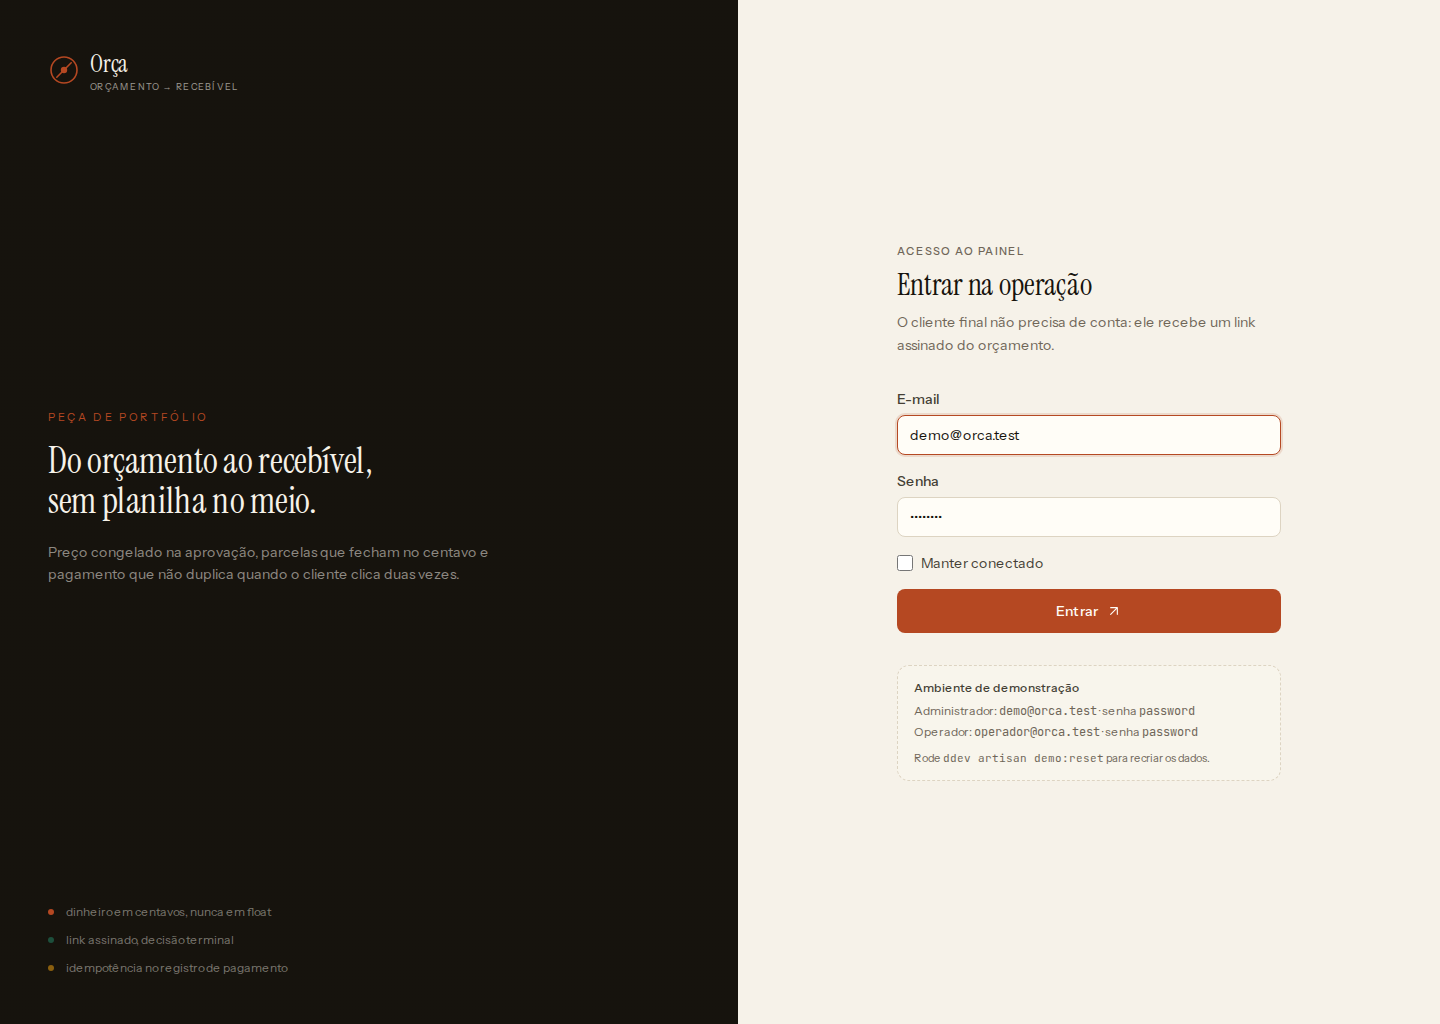
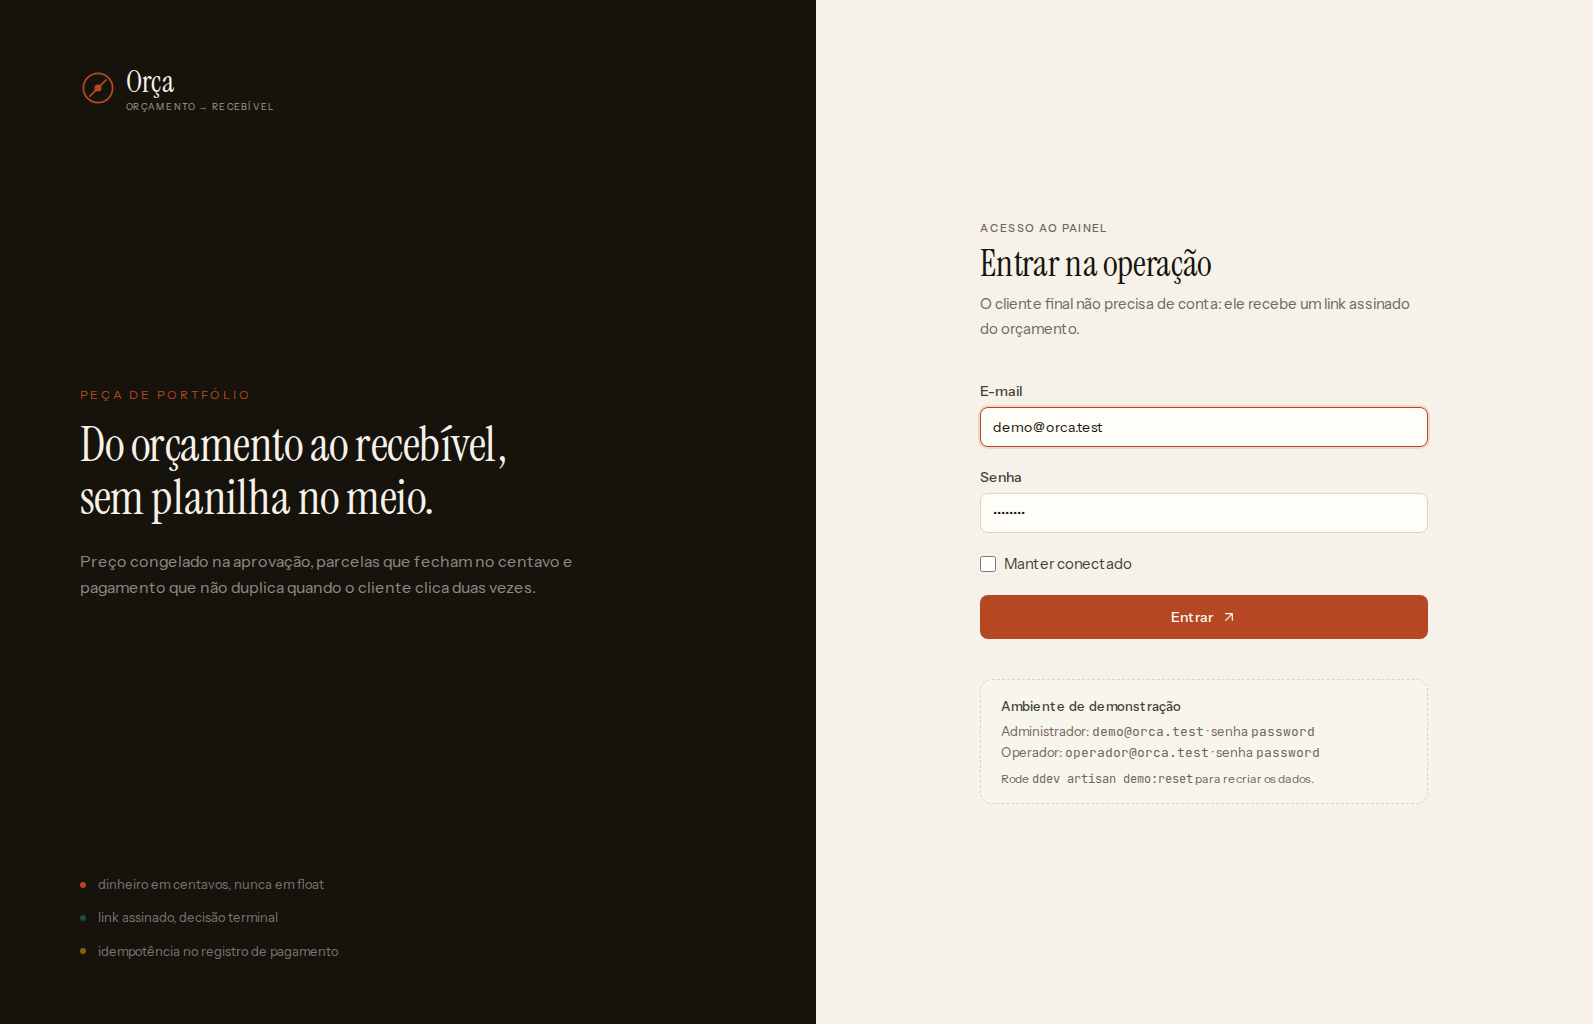
style(login): escala a composição em telas grandes
Acima de 1536px a tipografia e a coluna do formulário cresciam menos que a tela, deixando o login pequeno num canvas de 2.5k. O ajuste é só de escala no breakpoint 2xl: medida e corpo do hero, largura do formulário e respiro do painel. A composição split continua a mesma.

diff --git a/resources/views/layouts/guest.blade.php b/resources/views/layouts/guest.blade.php
@@ -11,29 +11,29 @@
 </head>
 <body class="min-h-dvh">
     <div class="grid min-h-dvh lg:grid-cols-[1.05fr_1fr]">
-        <aside class="grain relative hidden flex-col justify-between overflow-hidden bg-ink px-12 py-12 text-paper lg:flex">
-            <x-partials.brand mark-class="size-8" label-class="text-2xl" />
+        <aside class="grain relative hidden flex-col justify-between overflow-hidden bg-ink px-12 py-12 text-paper lg:flex 2xl:px-20 2xl:py-16">
+            <x-partials.brand mark-class="size-8 2xl:size-9" label-class="text-2xl 2xl:text-3xl" />
 
-            <div class="max-w-md">
-                <p class="text-[11px] uppercase tracking-[0.24em] text-clay">Peça de portfólio</p>
-                <p class="serif-display mt-4 text-4xl leading-[1.1] text-paper">
+            <div class="max-w-md 2xl:max-w-xl">
+                <p class="text-[11px] uppercase tracking-[0.24em] text-clay 2xl:text-xs">Peça de portfólio</p>
+                <p class="serif-display mt-4 text-4xl leading-[1.1] text-paper 2xl:text-5xl">
                     Do orçamento ao recebível,<br>sem planilha no meio.
                 </p>
-                <p class="mt-5 text-sm leading-relaxed text-paper/55">
+                <p class="mt-5 text-sm leading-relaxed text-paper/55 2xl:mt-6 2xl:text-base">
                     Preço congelado na aprovação, parcelas que fecham no centavo e pagamento
                     que não duplica quando o cliente clica duas vezes.
                 </p>
             </div>
 
-            <ul class="space-y-3 text-xs text-paper/45">
+            <ul class="space-y-3 text-xs text-paper/45 2xl:space-y-4 2xl:text-[13px]">
                 <li class="flex items-center gap-3"><span class="size-1.5 rounded-full bg-clay"></span> dinheiro em centavos, nunca em float</li>
                 <li class="flex items-center gap-3"><span class="size-1.5 rounded-full bg-pine"></span> link assinado, decisão terminal</li>
                 <li class="flex items-center gap-3"><span class="size-1.5 rounded-full bg-amber"></span> idempotência no registro de pagamento</li>
             </ul>
         </aside>
 
-        <main class="flex items-center justify-center px-6 py-12">
-            <div class="w-full max-w-sm">
+        <main class="flex items-center justify-center px-6 py-12 2xl:px-16">
+            <div class="w-full max-w-sm 2xl:max-w-md">
                 {{ $slot }}
             </div>
         </main>

diff --git a/resources/views/livewire/auth/login.blade.php b/resources/views/livewire/auth/login.blade.php
@@ -4,12 +4,12 @@
     </div>
 
     <p class="eyebrow">Acesso ao painel</p>
-    <h1 class="serif-display mt-2 text-3xl text-ink">Entrar na operação</h1>
-    <p class="mt-2 text-sm leading-relaxed text-muted">
+    <h1 class="serif-display mt-2 text-3xl text-ink 2xl:text-4xl">Entrar na operação</h1>
+    <p class="mt-2 text-sm leading-relaxed text-muted 2xl:text-[15px]">
         O cliente final não precisa de conta: ele recebe um link assinado do orçamento.
     </p>
 
-    <form wire:submit="login" class="mt-8 space-y-4">
+    <form wire:submit="login" class="mt-8 space-y-4 2xl:mt-10 2xl:space-y-5">
         <x-ui.field label="E-mail" name="email">
             <x-ui.input type="email" wire:model="email" autocomplete="username" :invalid="$errors->has('email')" autofocus />
         </x-ui.field>
@@ -18,7 +18,7 @@
             <x-ui.input type="password" wire:model="password" autocomplete="current-password" :invalid="$errors->has('password')" />
         </x-ui.field>
 
-        <label class="flex items-center gap-2 text-sm text-ink-soft">
+        <label class="flex items-center gap-2 text-sm text-ink-soft 2xl:text-[15px]">
             <input type="checkbox" wire:model="remember" class="size-4 rounded border-line text-clay focus:ring-clay/30">
             Manter conectado
         </label>
@@ -29,10 +29,10 @@
         </x-ui.button>
     </form>
 
-    <div class="mt-8 rounded-xl border border-dashed border-line bg-surface-soft/60 px-4 py-3 text-xs leading-relaxed text-muted">
+    <div class="mt-8 rounded-xl border border-dashed border-line bg-surface-soft/60 px-4 py-3 text-xs leading-relaxed text-muted 2xl:mt-10 2xl:px-5 2xl:py-4 2xl:text-[13px]">
         <p class="font-medium text-ink-soft">Ambiente de demonstração</p>
         <p class="mt-1">Administrador: <span class="font-mono">demo@orca.test</span> · senha <span class="font-mono">password</span></p>
         <p>Operador: <span class="font-mono">operador@orca.test</span> · senha <span class="font-mono">password</span></p>
-        <p class="mt-2 text-[11px]">Rode <span class="font-mono">ddev artisan demo:reset</span> para recriar os dados.</p>
+        <p class="mt-2 text-[11px] 2xl:text-xs">Rode <span class="font-mono">ddev artisan demo:reset</span> para recriar os dados.</p>
     </div>
 </div>

diff --git a/README.md b/README.md
@@ -49,6 +49,8 @@ Login do demo:
 7 números de orçamento (8 versões, incluindo um expirado e um rascunho), 4 pedidos
 e 9 parcelas — uma vencida, uma parcial e duas pagas.
 
+![Login em tela grande](docs/screenshots/login.png)
+
 ## O que vale ver
 
 - **Construtor de orçamento** (`/quotations/create`): itens com preço puxado do catálogo,
